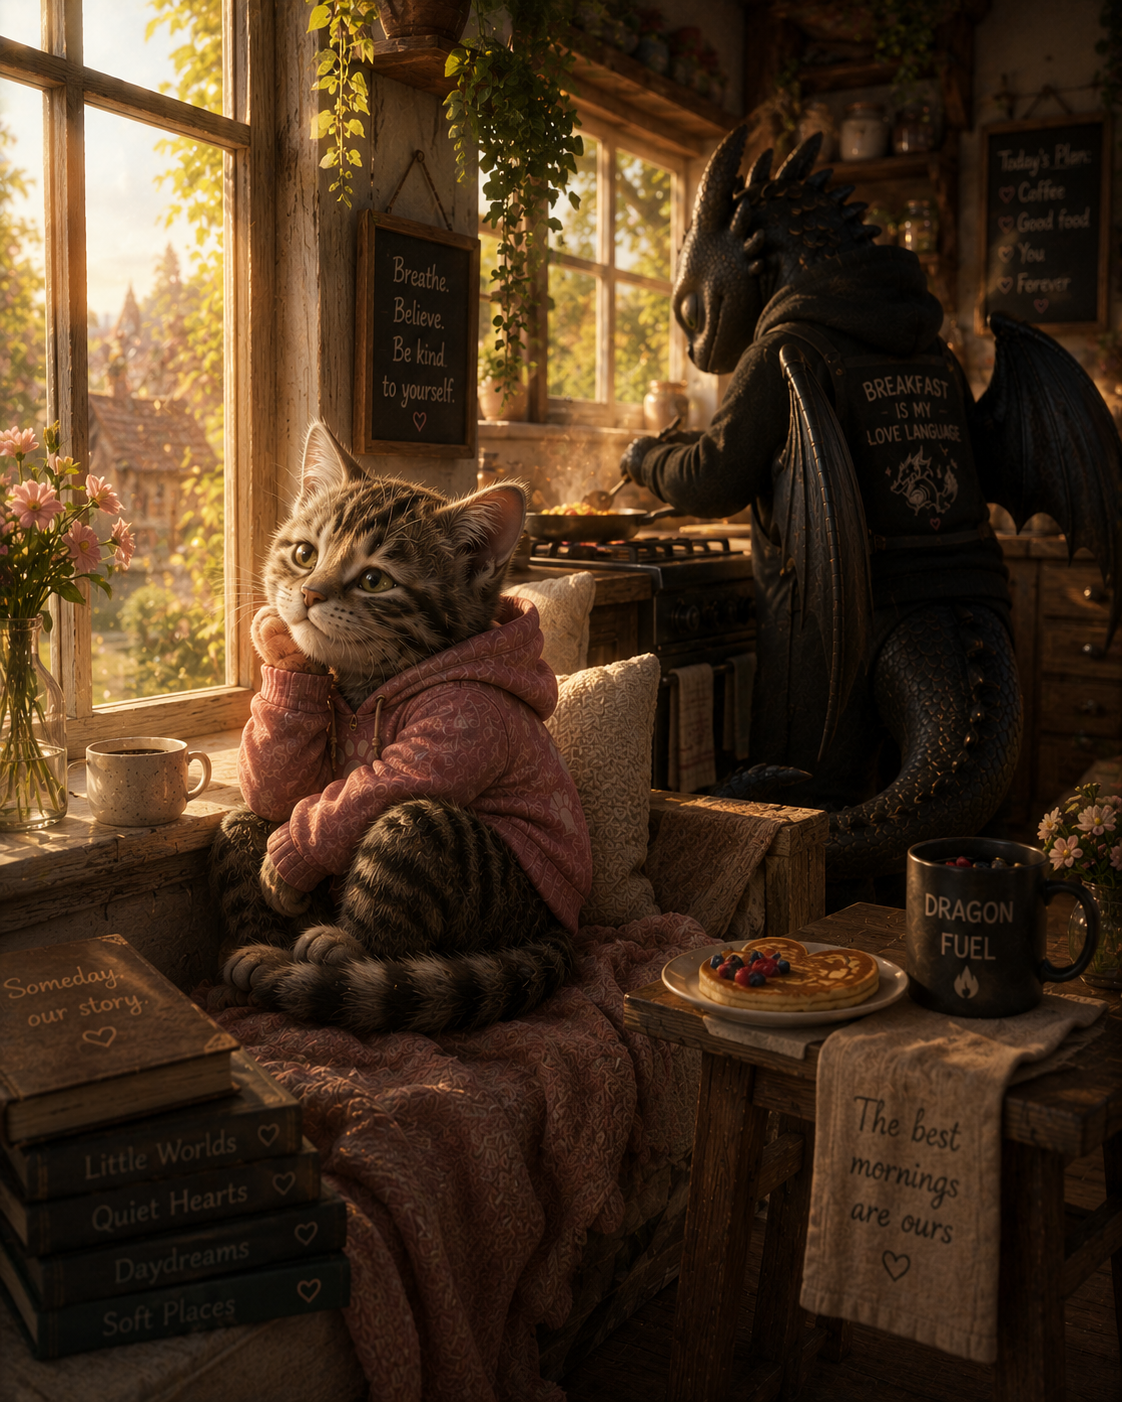
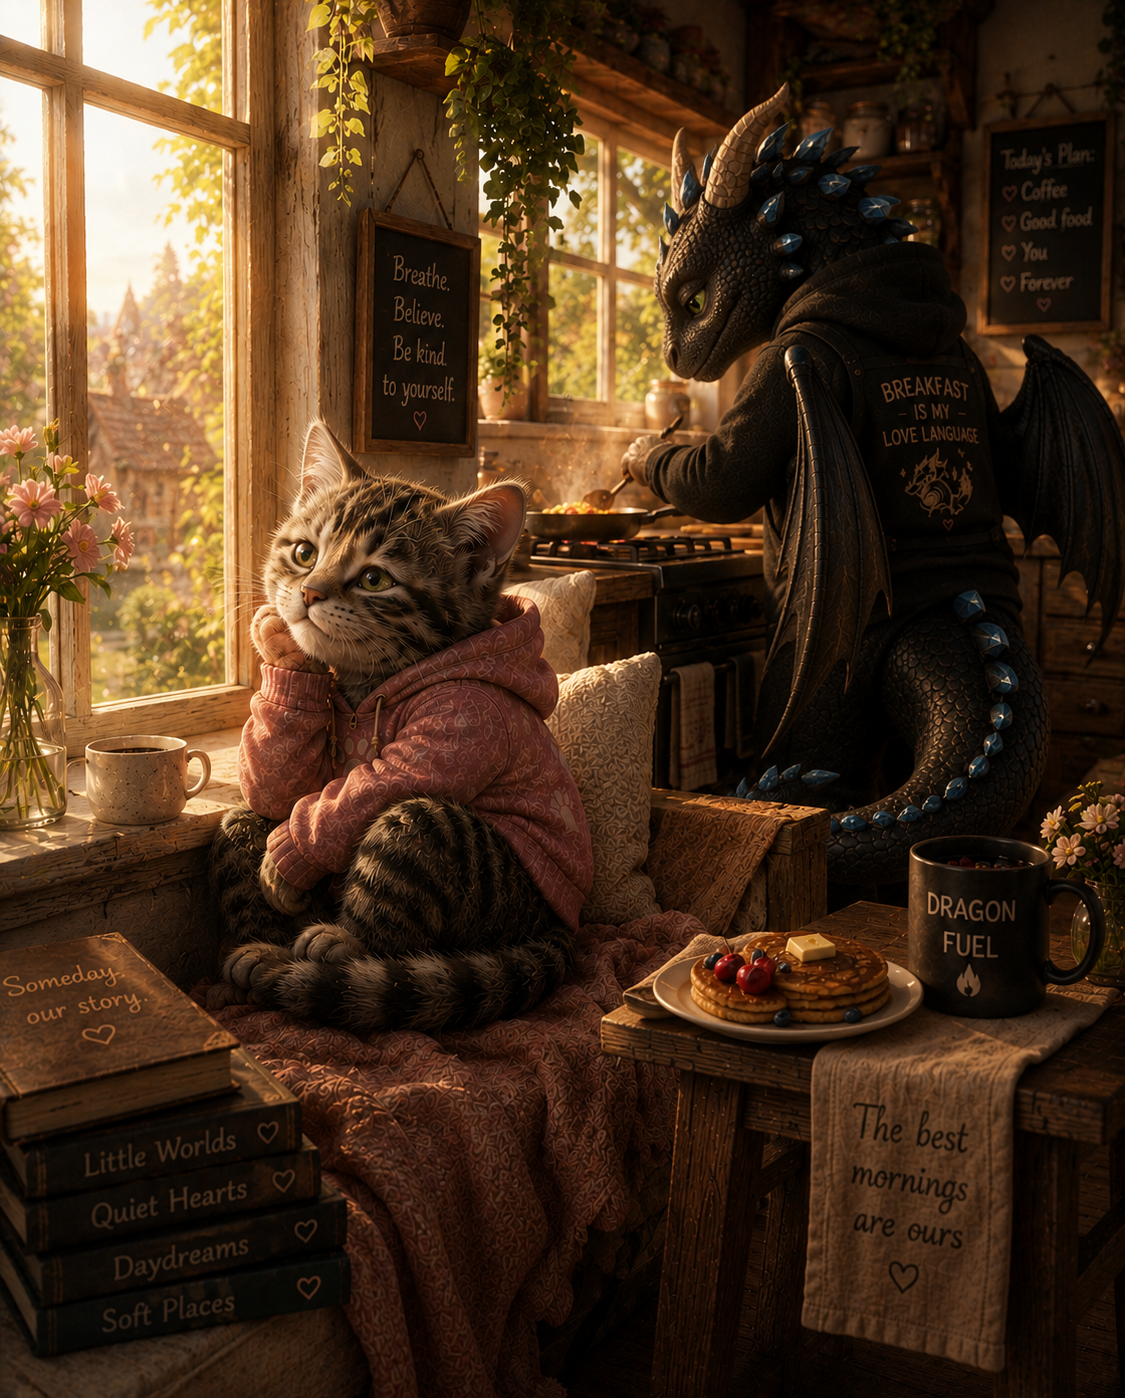
Updating kitten and dragon and 404 page

diff --git a/src/styles/global.css b/src/styles/global.css
@@ -1302,6 +1302,139 @@ blockquote {
   opacity: 1;
 }
 
+/* Updated Kitten & Dragon 404 */
+
+.not-found-page {
+  position: relative;
+  min-height: 100svh;
+  width: 100%;
+  display: grid;
+  align-items: center;
+  padding: var(--navbar-height, 5.5rem) clamp(1.25rem, 7vw, 6rem) 2rem;
+  overflow: hidden;
+  background-position: center right;
+  background-size: cover;
+  background-repeat: no-repeat;
+}
+
+.not-found-page::before {
+  content: "";
+  position: absolute;
+  inset: 0;
+  background:
+    linear-gradient(90deg, rgba(10, 9, 11, 0.7) 0%, rgba(10, 9, 11, 0.24) 44%, rgba(10, 9, 11, 0.02) 72%),
+    linear-gradient(0deg, rgba(10, 9, 11, 0.22), rgba(10, 9, 11, 0.08));
+  pointer-events: none;
+}
+
+.not-found-page::after {
+  display: none;
+}
+
+.not-found-content {
+  position: relative;
+  z-index: 1;
+  width: min(100%, 420px);
+  color: #f0dfcf;
+  text-shadow: 0 0.16rem 0.75rem rgba(0, 0, 0, 0.64);
+}
+
+.not-found-code {
+  color: #d79aa0;
+  font-family: 'Cormorant Garamond', serif;
+  font-size: clamp(5rem, 13vw, 11rem);
+  font-weight: 300;
+  line-height: 0.75;
+  margin-bottom: 1.35rem;
+}
+
+.not-found-content h1 {
+  color: #f0dfcf;
+  font-family: 'Cormorant Garamond', serif;
+  font-size: clamp(2.35rem, 5.4vw, 4.4rem);
+  font-weight: 500;
+  line-height: 0.95;
+  margin-bottom: 0.25rem;
+}
+
+.not-found-script {
+  color: #d79aa0;
+  font-family: 'Cormorant Garamond', serif;
+  font-size: clamp(2.3rem, 5.8vw, 4.6rem);
+  font-style: italic;
+  font-weight: 400;
+  line-height: 0.95;
+  margin-bottom: clamp(1.5rem, 4vw, 2.6rem);
+}
+
+.not-found-copy {
+  max-width: 22rem;
+  color: rgba(240, 223, 207, 0.9);
+  font-family: 'Cormorant Garamond', serif;
+  font-size: clamp(1.25rem, 2.2vw, 1.7rem);
+  line-height: 1.28;
+  margin-bottom: clamp(1.5rem, 4vw, 2.2rem);
+}
+
+.not-found-actions {
+  display: flex;
+  align-items: center;
+  gap: 1rem;
+  flex-wrap: wrap;
+}
+
+.not-found-button,
+.not-found-link {
+  cursor: pointer;
+  font: inherit;
+}
+
+.not-found-button {
+  min-height: 3.1rem;
+  padding: 0.85rem 1.9rem;
+  border: 1px solid rgba(240, 223, 207, 0.38);
+  border-radius: 4px;
+  background:
+    linear-gradient(135deg, rgba(127, 47, 39, 0.42), rgba(127, 47, 39, 0.2)),
+    rgba(15, 12, 13, 0.74);
+  color: #fff8ef;
+  box-shadow: 0 1rem 2rem rgba(0, 0, 0, 0.28);
+  font-family: 'Cormorant Garamond', serif;
+  font-size: 1.1rem;
+  font-weight: 600;
+  letter-spacing: 0.1rem;
+  text-transform: uppercase;
+  transition:
+    border-color 0.25s ease,
+    background 0.25s ease,
+    transform 0.25s ease;
+}
+
+.not-found-button:hover {
+  border-color: rgba(215, 154, 160, 0.72);
+  background:
+    linear-gradient(135deg, rgba(127, 47, 39, 0.58), rgba(127, 47, 39, 0.26)),
+    rgba(15, 12, 13, 0.82);
+  transform: translateY(-2px);
+}
+
+.not-found-link {
+  min-height: 2.5rem;
+  border: 0;
+  background: transparent;
+  color: #f0dfcf;
+  font-family: 'Cormorant Garamond', serif;
+  font-size: 1.08rem;
+  transition:
+    color 0.25s ease,
+    transform 0.25s ease;
+}
+
+.not-found-link:hover {
+  color: #d79aa0;
+  transform: translateY(-1px);
+}
+
 /* MOBILE */
 
 @media (max-width: 768px) {
@@ -1331,6 +1464,56 @@ blockquote {
     min-height: 2.15rem;
     padding: 0.48rem 0.68rem;
     font-size: 0.68rem;
+  }
+
+  .not-found-page {
+    min-height: 100svh;
+    align-items: end;
+    padding: calc(var(--navbar-height) + 1rem) 1rem 2rem;
+    background-position: 62% center;
+  }
+
+  .not-found-page::before {
+    background:
+      linear-gradient(0deg, rgba(10, 9, 11, 0.86) 0%, rgba(10, 9, 11, 0.58) 42%, rgba(10, 9, 11, 0.08) 76%),
+      linear-gradient(90deg, rgba(10, 9, 11, 0.48), rgba(10, 9, 11, 0.04));
+  }
+
+  .not-found-content {
+    width: min(100%, 23rem);
+    padding: 1.15rem;
+    border: 1px solid rgba(215, 184, 147, 0.12);
+    border-radius: 8px;
+    background: rgba(10, 9, 11, 0.5);
+    backdrop-filter: blur(4px);
+  }
+
+  .not-found-code {
+    font-size: clamp(4.6rem, 22vw, 7rem);
+    margin-bottom: 1rem;
+  }
+
+  .not-found-content h1 {
+    font-size: clamp(2.1rem, 11vw, 3rem);
+  }
+
+  .not-found-script {
+    font-size: clamp(2.2rem, 12vw, 3.25rem);
+    margin-bottom: 1.15rem;
+  }
+
+  .not-found-copy {
+    font-size: 1.18rem;
+  }
+
+  .not-found-actions {
+    gap: 0.75rem;
+  }
+
+  .not-found-button {
+    min-height: 2.75rem;
+    padding: 0.72rem 1.2rem;
+    font-size: 0.98rem;
   }
 
   .hero-title {
@@ -1422,24 +1605,34 @@ blockquote {
   }
 
   .not-found-page {
-    min-height: calc(100svh - var(--navbar-height));
-    align-items: flex-end;
+    min-height: 100svh;
+    align-items: end;
     justify-content: center;
-    margin-top: var(--navbar-height);
-    padding: 1rem 1rem 0.7rem;
+    margin-top: 0;
+    padding: calc(var(--navbar-height) + 1rem) 1rem 2rem;
     background-position: 62% center;
+    background-size: cover;
   }
 
-  .not-found-page::after {
+  .not-found-page::before {
     background:
-      linear-gradient(0deg, rgba(8, 7, 7, 0.54), transparent 48%),
-      linear-gradient(90deg, rgba(8, 7, 7, 0.2), transparent 54%);
+      linear-gradient(0deg, rgba(10, 9, 11, 0.86) 0%, rgba(10, 9, 11, 0.58) 42%, rgba(10, 9, 11, 0.08) 76%),
+      linear-gradient(90deg, rgba(10, 9, 11, 0.48), rgba(10, 9, 11, 0.04));
+  }
+
+  .not-found-content {
+    width: min(100%, 24rem);
+    margin-left: 0;
+    padding: 1.15rem;
+    border: 1px solid rgba(215, 184, 147, 0.12);
+    border-radius: 8px;
+    background: rgba(10, 9, 11, 0.5);
+    backdrop-filter: blur(4px);
   }
 
   .not-found-actions {
-    width: min(100%, 24rem);
-    margin-left: 0;
     flex-direction: column;
+    align-items: stretch;
     gap: 0.75rem;
   }
 

diff --git a/src/views/NotFound.vue b/src/views/NotFound.vue
@@ -3,22 +3,37 @@
     class="not-found-page"
     :style="{ backgroundImage: `url(${notFoundImage})` }"
   >
-    <section class="not-found-actions" aria-labelledby="not-found-title">
-      <h1 id="not-found-title" class="sr-only">
-        404. Wrong path. Right company.
-      </h1>
-      <p class="sr-only">
+    <section class="not-found-content" aria-labelledby="not-found-title">
+      <p class="not-found-code">404</p>
+      <h1 id="not-found-title">Wrong path.</h1>
+      <p class="not-found-script">Right company.</p>
+      <p class="not-found-copy">
         The page you're looking for isn't here, but we'll help you find your
         way back.
       </p>
-      <router-link class="not-found-button" to="/">Take me home</router-link>
-      <router-link class="not-found-link" to="/archive">
-        Explore the archive
-      </router-link>
+      <div class="not-found-actions" aria-label="404 navigation">
+        <button class="not-found-button" type="button" @click="goHome">
+          Take me home
+        </button>
+        <button class="not-found-link" type="button" @click="goArchive">
+          Explore the archive
+        </button>
+      </div>
     </section>
   </main>
 </template>
 
 <script setup>
+import { useRouter } from "vue-router";
 import notFoundImage from "../assets/not-found-kitten-dragon.png";
+
+const router = useRouter();
+
+function goHome() {
+  router.push("/");
+}
+
+function goArchive() {
+  router.push("/archive");
+}
 </script>
